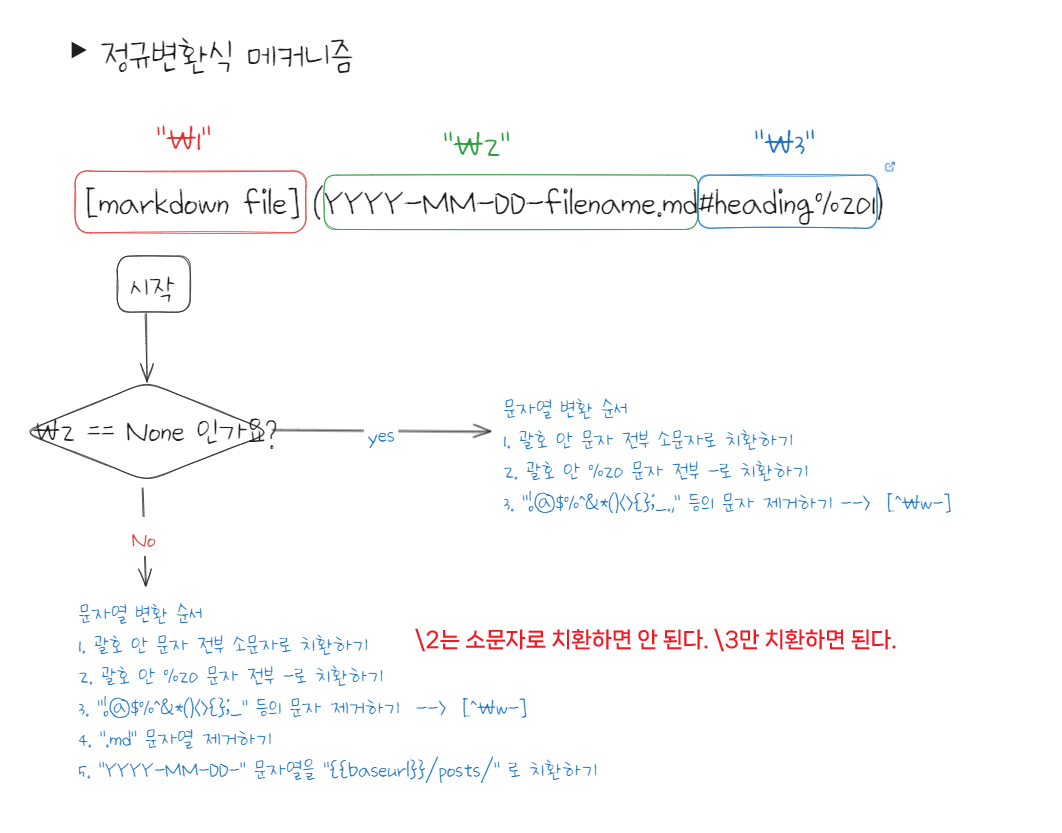
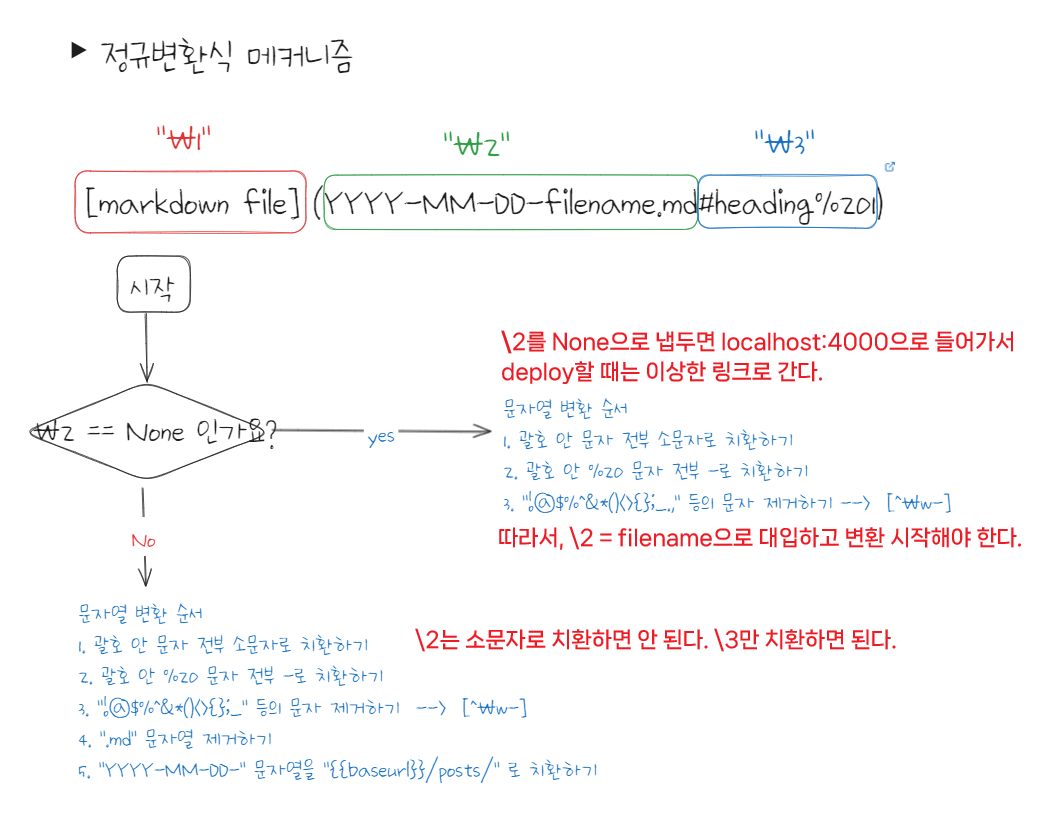
blog update at 2024-08-16 Time 05:52:27 >>

Changed region(s): [[0.4661, 0.3745, 0.9633, 0.4682], [0.4661, 0.6242, 0.9633, 0.6555]]

diff --git a/assets/css/warning_banner.css b/assets/css/warning_banner.css
@@ -20,7 +20,7 @@
         border-radius:1rem;
         transform: rotateZ(-3deg) translate(-50%,-50%);
         opacity: 0.6;
-        transition: all 1s;
+        
     }
     .letterbox{
         position: relative;
@@ -73,7 +73,6 @@
         border-radius:1rem;
         transform: rotateZ(-3deg) translate(-50%,-50%);
         opacity: 0.6;
-        transition: all 1s;
     }
     .letterbox{
         position: relative;
@@ -112,6 +111,7 @@
 }
 
 .post-preview:hover .box{
+    transition: all 1s;
     opacity: 0.05;
 }
 
@@ -123,36 +123,3 @@
         transform: translateX(-80px);
     }
 }
-
-
-/* .box{
-    position: absolute;
-    display: flex;
-    flex-direction: column;
-    width: 80%;
-    max-width: 600px;
-    
-    min-height: 80px;
-    aspect-ratio: 4 / 1;
-    overflow: hidden;
-    
-    outline-offset: 0.2rem;
-    outline: 0.4rem solid var(--yellow-warning);
-    border-radius: 1rem;
-    border-top-left-radius: 1rem;
-    border-top-right-radius: 1rem;
-    border-bottom-right-radius: 1rem;
-    border-bottom-left-radius: 1rem;
-    transform: rotateZ(-12deg) translate(0%, 20%);
-    opacity: 0.3;
-} */
-
-
-/* .letterbox {
-    position: relative;
-    flex: 1;
-    width: calc(100% + 80px);
-    background: repeating-linear-gradient(120deg, var(--yellow-warning), var(--yellow-warning) 16.3205px, #000000 17.3205px, #000000 31.641px, rgba(0, 0, 0, 0.7) 32.641px, rgba(0, 0, 0, 0.7) 33.641px, var(--yellow-warning) 34.641px);
-    animation: animateStripes 2s linear infinite;
-    min-height: 20px;
-} */

diff --git a/_plugins/link_converter.py b/_plugins/link_converter.py
@@ -6,13 +6,13 @@ import sys
 print(os.getcwd())
 input_dir = '_posts'
 
-def regex_rule(match) :
+def regex_rule(match, filename = None) :
     alias = match.group(1)
     other_file = match.group(2)
     heading = match.group(3)
 
 
-    other_file = "" if other_file is None else other_file # 빈 문자열도 false로 인식
+    other_file = filename if other_file is None else other_file # 빈 문자열도 false로 인식
     heading = "" if heading is None else heading 
 
     #1. %20 => "-" 그리고 소문자로 치환하기
@@ -23,29 +23,31 @@ def regex_rule(match) :
     other_file = re.sub(r"[^\w-]","",other_file) 
     heading = "#" + re.sub(r"[^\w-]","",heading) if heading != "" else ""
 
-    if other_file :
-        #3. .md 제거하기 #2에서 "." 이미 제거됨.
-        other_file = other_file[:-2] if len(other_file)>2 and other_file[-2:] == "md" else other_file
+    #3. .md 제거하기 #2에서 "." 이미 제거됨.
+    other_file = other_file[:-2] if len(other_file)>2 and other_file[-2:] == "md" else other_file
 
-        #4. 날짜를 다음 문자로 치환하기
-        other_file = re.sub(r"\d{4}-\d{2}-\d{2}-", "{{baseurl}}/posts/", other_file)
+    #4. 날짜를 다음 문자로 치환하기
+    other_file = re.sub(r"\d{4}-\d{2}-\d{2}-", "{{baseurl}}/posts/", other_file)
     
-
+    print(f'{alias + "(" + other_file + heading +")"}')
     return alias + "(" + other_file + heading +")"
 
 for filename in os.listdir(input_dir) :
     if filename.endswith(".md") :
         filepath = os.path.join(input_dir, filename)
 
+        print(filename)
         with open(filepath, "r", encoding="UTF-8") as file :
             content = file.read()
-        content = re.sub(r"(?!\!)(\[[^\]]+\])\(((?!http)(?!www.)(?![/]*assets/img/res)[^\)]+\.md)?(#.+)?\)", regex_rule, content)
+        content = re.sub(r"(?!\!)(\[[^\]]+\])\(((?!http)(?!www.)(?![/]*assets/img/res)[^\)]+\.md)?(#.+)?\)", lambda x : regex_rule(x, filename), content)
 
         if sys.platform.lower() == "linux" :
             with open(filepath, "w", encoding="UTF-8") as file : 
                 file.write(content)
         else : 
             print(f"os platform error : {sys.platform}")
+
+        print("\n=====================\n")
     
 
 

diff --git a/_posts/2024-08-15-Relative Links.md b/_posts/2024-08-15-Relative Links.md
@@ -70,6 +70,7 @@ plugins:
 >         - obsidian의 경우 일부 문자열을 사용하지 않는다.
 >         - 이 때의 `#`는 Heading이 아니라 특수문자로 취급한다.
 >     - heading만 있을 경우 `baseurl/현재문서/`에 붙인다.
+{: .prompt-info}
 
 {% linkpreview "https://pythex.org/" %}
 
@@ -85,26 +86,30 @@ plugins:
 
 그러면 어떤 문자열로 변환해야 정확한 링크로 변환해줄까? 성공적으로 변환한 것만 체크해뒀다.
 
-- 일반 링크 `[구현단계 ABC](#-ABC)`
+- [ ] 일반 링크 `[구현단계 ABC](#-ABC)`
     - [구현단계 ABC](http://localhost:4000/posts/relative-links/#구현단계%20ABC)
-- `%20` `-`로 치환 + 소문자 치환 `[구현단계 ABC](#-abc)`
+- [x] `%20` `-`로 치환 + 소문자 치환 `[구현단계 ABC](#-abc)`
     - [구현단계 ABC](http://localhost:4000/posts/relative-links/#구현단계-abc)
     - [Python 스크립트 만들기](http://localhost:4000/posts/relative-links/#python-스크립트-만들기)
     - **위 두 링크를 번갈아가며 클릭해도 정상적으로 동작한다.**
-- liquid 문법1 `[구현단계 ABC]({{ site.baseurl }}/posts#-ABC)`
+- [ ] liquid 문법1 `[구현단계 ABC]({{ site.baseurl }}/posts#-ABC)`
     - [구현단계 ABC](http://localhost:4000/posts/#구현단계%20ABC)
     - `post.url` 문구가 접근이 안 된다.
-- liquid 문법2 + 소문자 치환 + `%20` 치환 `[구현단계 ABC](#-abc)]`
+- [ ] liquid 문법2 + 소문자 치환 + `%20` 치환 `[구현단계 ABC](#-abc)]`
     - [구현단계 ABC](http://localhost:4000/posts/relative-links/#구현단계-abc)
     - `post.url | relative_url`도 역시 접근이 안 된다.
-- 다른 문서 참고하기 `[1. linkpreview.html]({{ site.baseurl }}/postslinkpreview-#1-linkpreviewhtml)`
+- [x] 다른 문서 참고하기 `[1. linkpreview.html]({{ site.baseurl }}/postslinkpreview-#1-linkpreviewhtml)`
     - [1. linkpreview.html](http://localhost:4000/posts/linkpreview-구현하기/#1-linkpreviewhtml)
 
 위 노가다를 통해 다음과 같이 정리할 수 있다.
+
 ![Pasted image 20240816020817](assets/img/res/Pasted%20image%2020240816020817.png)
 
+
 ![Pasted image 20240816020839](assets/img/res/Pasted%20image%2020240816020839.png)
+
 위 요구사항을 만족하는 정규표현식은 다음과 같다.
+
 ![Pasted image 20240816023541](assets/img/res/Pasted%20image%2020240816023541.png)
 
 ```python
@@ -204,7 +209,7 @@ else :
 ```
 
 
-> 코드를 무턱대고 바로 실행시키면 `_posts` 내 모든 마크다운 문서들의 파일 링크가 옵시디언에서는 사용할 수 없게 되니 되도록이면 로컬에서 실행시키지 말자. 이를 방지하기 위해서 운영체제가 `Ubuntu` 일때만 실행하도록 만들면 된다. 실제로 한 번 날려먹었는데, 제목에 `-`나 특수문자를 거의 안 썼다면 역변환할 수 있는 파이썬 스크립트도 만들 수 있으니 한 번 시도해보자.
+> `with open(filepath, "w") as file` 코드를 무턱대고 바로 실행시키면 `_posts` 내 모든 옵시디언 파일들이 지워지거나 사용할 수 없는 링크로 변환되니 되도록이면 로컬에서 실행하지 않는 것을 권장한다. 이를 방지하기 위해서 운영체제가 `Ubuntu` 일때만 실행하도록 위와 같이 코드를 짜면 된다. 실제로 한 번 날려먹었는데, 제목에 `-`나 특수문자를 거의 안 썼다면 역변환할 수 있는 파이썬 스크립트도 만들 수 있으니 한 번 시도해보자.
 {: .prompt-danger }
 
 #### Step3. workflow 설정하기
@@ -242,7 +247,31 @@ jobs:
 
 그러면 처음보는 step이 새로 생기면서 문서 변환이 정상적으로 이뤄진다. 
 ![](/assets/img/res/Pasted%20image%2020240816044932.png)
-아마 특수한 문자를 쓰는 거 아니면 정상적으로 동작할 것이다. 추후 새로 발견된 예외사항이 생기면 추가 작성할 예정이다. 
+
+아마 특수한 문자를 쓰는 거 아니면 정상적으로 동작할 것이다. 추후 새 예외사항이 생기면 본 문서에 추가 작성할 예정이다. 
+
+매우 긴 글이 되었는데 이제 localhost에서 빌드하는 경우를 제외한다면 obsidian 파일링크와 블로그에서의 링크 둘 다 사용할 수 있게 되었다. 다음 시간에 여기서 좀 더 응용해서 `D3-force` 와 그래프를 활용한 포트폴리오 페이지를 구성할 예정이다.
+
+#### 수정사항
+- \[2024-08-16\]
+	- 정규표현식 변환할 때, 두 번째항 `\2`가 비어있는 경우 현재 파일명을 받도록 수정해야 한다.
+		- `\2` 가 비어있으면 자동으로 `localhost:4000/`뒤에 주소가 붙게 되어 있어 build&deploy한 페이지에서는 링크가 정상적으로 작동하지 않는다.
+		- [Step2. python 정규표현식 `group` 메소드 활용하기](#Step2.%20python%20정규표현식%20`group`%20메소드%20활용하기) 코드에서 다음 부분을 수정한다.
+		  ```python
+			def regex_rule(match, filename = None) :
+				alias = match.group(1)
+				other_file = match.group(2)
+				heading = match.group(3)
+
+				# 수정 구문
+				other_file = filename if other_file is None else other_file 
+				# 생략
+
+			# open(파일, "r", encoding = "UTF-8") 직후 구문
+			content = re.sub(r'정규표현식', lambda x : regex_rul(x, filename), content);
+			```
+
+
 
 ## 주의사항
 

diff --git a/_posts/2024-08-06-pyQt6 Index.md b/_posts/2024-08-06-pyQt6 Index.md
@@ -16,6 +16,11 @@ VS + C#이나 electron 같이 pyQt6 보다 좋은 GUI툴은 많지만 python 밖
     - raspberry pi 같은 임베디드(?) 디바이스의 경우 **pyQt5**를 더 많이 사용하는 경향이 있다.
 - `html/js/css` 몰라도 `pyside2-uic`혹은 `pyside6-uic`으로 drag&drop으로 UI를 꾸밀 수 있다.
 - `QWidgets`으로 위젯을 만드는 게 귀찮다면, `xlwings` 같은 라이브러리로 엑셀파일 값을 읽어오는 방식으로 구현해도 좋다.
+- 코딩에 익숙하지 않은 사람에게는 다른 GUI 보다 그나마 접근하기 편하다.
+	- Visual Studio의 경우, 회사에서는 유료이기 때문에 비개발직군이 사용하기 쉽지는 않다.
+	- Js + npm로 시각화하는 방식도 있다. 하지만 웹 프로그래밍이 익숙하지 않으면 환경세팅이 번거로운 반면에 파이썬은 일부 라이브러리 설치만 해두면 다른 기능이 필요없다.
+		- 그리고 데이터 분석쪽은 Python이 가장 활성화되어 있으며
+		- 코드에 미숙할 경우 Jupyter notebook으로 구간별 테스트할 수 있는 python이 상대적으로 편하다. 
 
 이번 pyQt6에 관한 글은 개인 프로젝트를 만들면서 겪었던 시행착오들 위주로 적을 예정이다.
 

diff --git a/_posts/2024-08-15-linkpreview 구현하기.md b/_posts/2024-08-15-linkpreview 구현하기.md
@@ -14,7 +14,6 @@ math: true
 image: 
 incomplete: false
 ---
-\[2024-08-15\] [2024-08-08-Github 블로그 꾸며보기2](2024-08-08-Github%20블로그%20꾸며보기2.md) 파일이 지나치게 길어져 별도의 파일로 분리합니다.
 
 # [Linkpreview 설치하기](https://github.com/ysk24ok/jekyll-linkpreview)
 

diff --git a/_posts/2024-08-12-명세서는 뭐고 어떻게 작성하는 걸까.md b/_posts/2024-08-12-명세서는 뭐고 어떻게 작성하는 걸까.md
@@ -10,11 +10,10 @@ tags:
   - 설계
   - programming
   - 기획
-  - 미완성
 comments: 
 published: false
 math: true
-pin: "false"
+pin: false
 mermaid: "false"
 image: 
 linkpreview: false

diff --git a/_posts/2024-08-14-Rust 비교하기.md b/_posts/2024-08-14-Rust 비교하기.md
@@ -9,7 +9,6 @@ tags:
   - Rust
   - programming
   - Clang
-  - 미완성
 comments: 
 published: true
 math: true

diff --git a/_posts/2024-08-08-Github 블로그 꾸며보기2.md b/_posts/2024-08-08-Github 블로그 꾸며보기2.md
@@ -8,7 +8,6 @@ permalink:
 tags:
   - diary
   - blog
-  - 미완성
 comments: true
 published: true
 math: true
